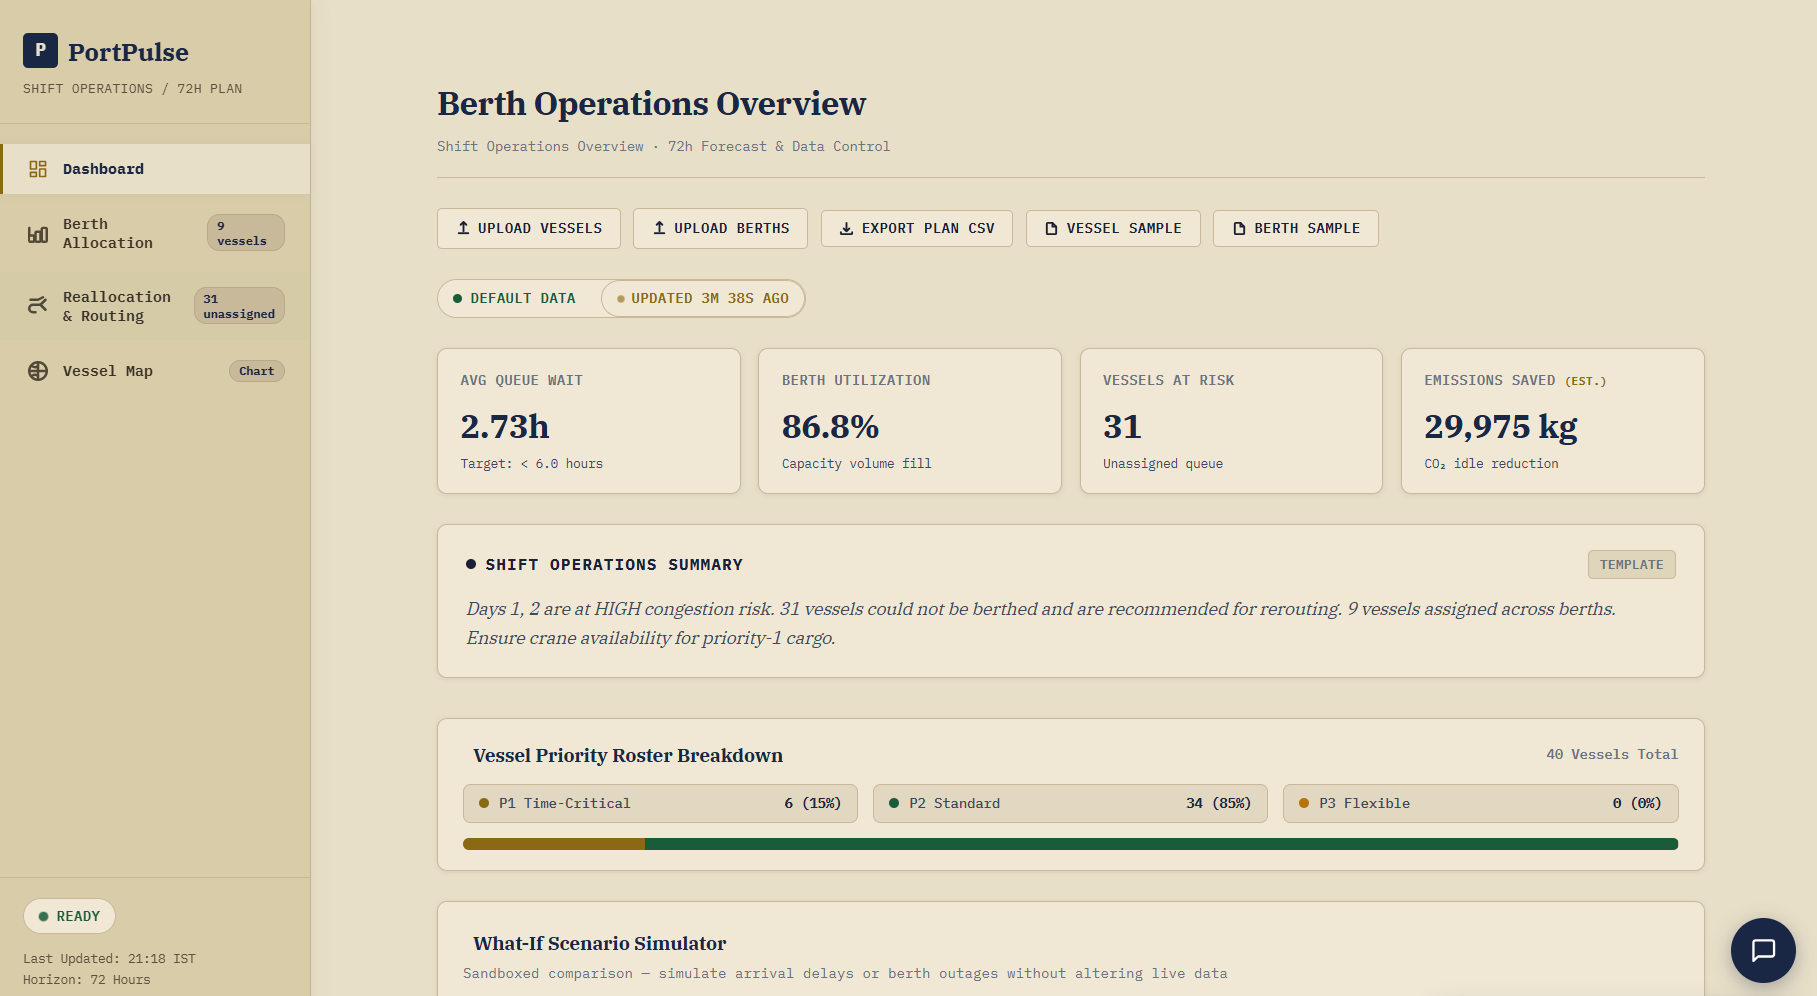
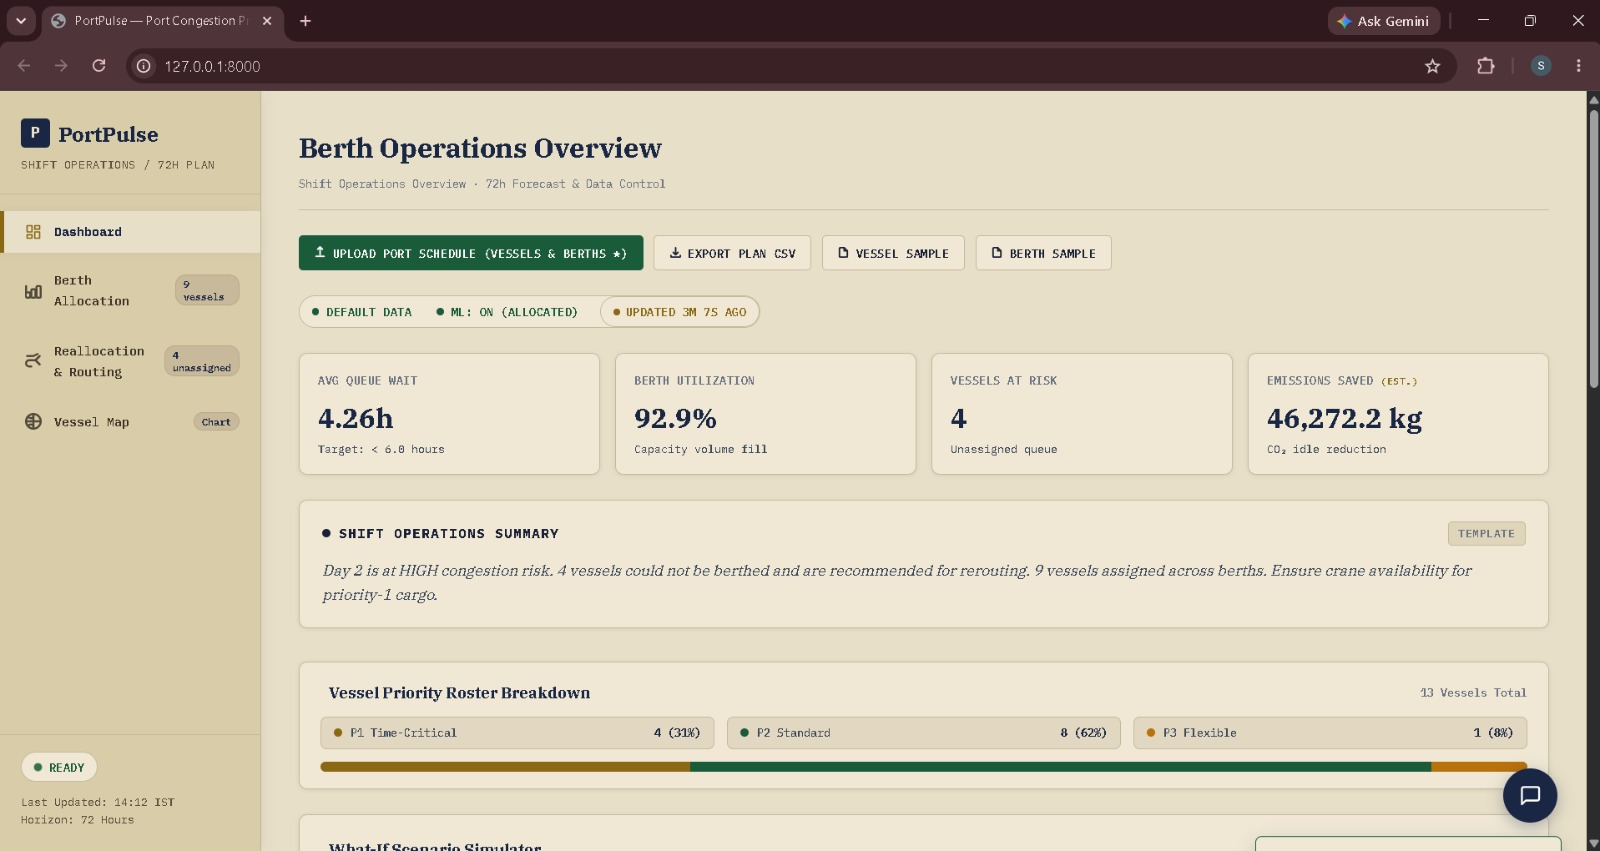
Update demo screenshots with high-resolution UI captures and update documentation

diff --git a/demo/screenshots/README.md b/demo/screenshots/README.md
@@ -1,24 +1,33 @@
-# Screenshots
+# Application Screenshots
 
-Screenshots captured from the running PortPulse dashboard using the bundled
-sample vessel and berth datasets.
+High-resolution screenshots captured from the running PortPulse dashboard using sample vessel and berth datasets.
 
-## Naming Convention
+## Naming Convention & Roster
 
-Name your screenshots sequentially so they appear in logical order:
+The screenshots are organized sequentially to reflect the operational workflow:
 
-  01-dashboard-overview.png       ← Operations overview and KPIs
-  02-whatif-cascade-simulation.png ← Scenario controls and congestion risk
-  03-berth-capacity.png           ← Berth capacity and utilization
-  04-berth-assignment-plan.png    ← Vessel assignment schedule
-  05-reallocation-routing.png    ← Unassigned vessels and alternate ports
-  06-vessel-map.png               ← Live schematic and reroute corridors
+```text
+01-dashboard-overview.png      ← Berth operations overview, KPI cards, and priority breakdown
+02-berth-capacity.png          ← Berth capacity utilization cards across 72h window
+03-berth-assignment-plan.png   ← Detailed vessel assignment schedule table and demurrage costs
+04-reallocation-routing.png    ← Reroute suggestions and ranked candidate alternate ports
+05-vessel-map.png              ← Interactive global vessel ocean routing corridors map
+06-ops-assistant-chatbot.png   ← Conversational Ops Assistant chatbot widget
+07-weather-impact-feed.png     ← Weather delay engine & dynamic re-allocation feed
+08-global-port-selector.png    ← International port selector & coordinate manager
+09-berth-map-detail.png        ← Detailed marine route waypoints and berth anchorages
+10-congestion-forecast.png     ← 72-Hour rolling 24-hour congestion risk forecast
+```
 
-## Captured Screenshots
+## Visual Tour
 
-1. [Dashboard overview](01-dashboard-overview.png) — 72-hour plan summary, KPIs, and priority roster.
-2. [What-If and cascade simulation](02-whatif-cascade-simulation.png) — scenario controls, action alerts, and congestion forecast.
-3. [Berth capacity](03-berth-capacity.png) — capacity utilization and optimization summary.
-4. [Berth assignment plan](04-berth-assignment-plan.png) — vessel schedule, berth starts, waits, priorities, and decision reasons.
-5. [Reallocation and routing](05-reallocation-routing.png) — unassigned vessels and ranked alternate ports.
-6. [Vessel map](06-vessel-map.png) — schematic terminal layout, berth nodes, vessels, and reroute corridors.
+1. **[Dashboard Overview](01-dashboard-overview.png)** — 72-hour plan summary, KPI tracking strip, and priority roster breakdown.
+2. **[Berth Capacity & Utilization](02-berth-capacity.png)** — Live TEU capacity volume, percentage utilization, docked vessel name, and queue status per berth.
+3. **[Berth Assignment Plan](03-berth-assignment-plan.png)** — Complete vessel schedule table, crane allocations, demurrage costs, weather delays, berth start, and estimated departure.
+4. **[Reallocation & Rerouting](04-reallocation-routing.png)** — Unassigned vessel list with candidate alternate ports ranked by nautical miles distance and transit times.
+5. **[Vessel Ocean Routing Map](05-vessel-map.png)** — Live schematic ocean routing corridors connecting international container hubs.
+6. **[Ops Assistant Chatbot](06-ops-assistant-chatbot.png)** — Conversational AI Chatbot widget grounded directly in live 72-hour ops plan data.
+7. **[Weather Delay Feed](07-weather-impact-feed.png)** — Real-time weather delay engine & dynamic berth re-allocation audit log.
+8. **[Global Port Selector](08-global-port-selector.png)** — Country and port selector supporting international container ports and custom coordinates.
+9. **[Berth Map Detail](09-berth-map-detail.png)** — High-resolution harbor anchorage and vessel berth mapping.
+10. **[72-Hour Congestion Forecast](10-congestion-forecast.png)** — Rolling 24-hour risk level classification comparing inbound TEU vs berth capacity.
